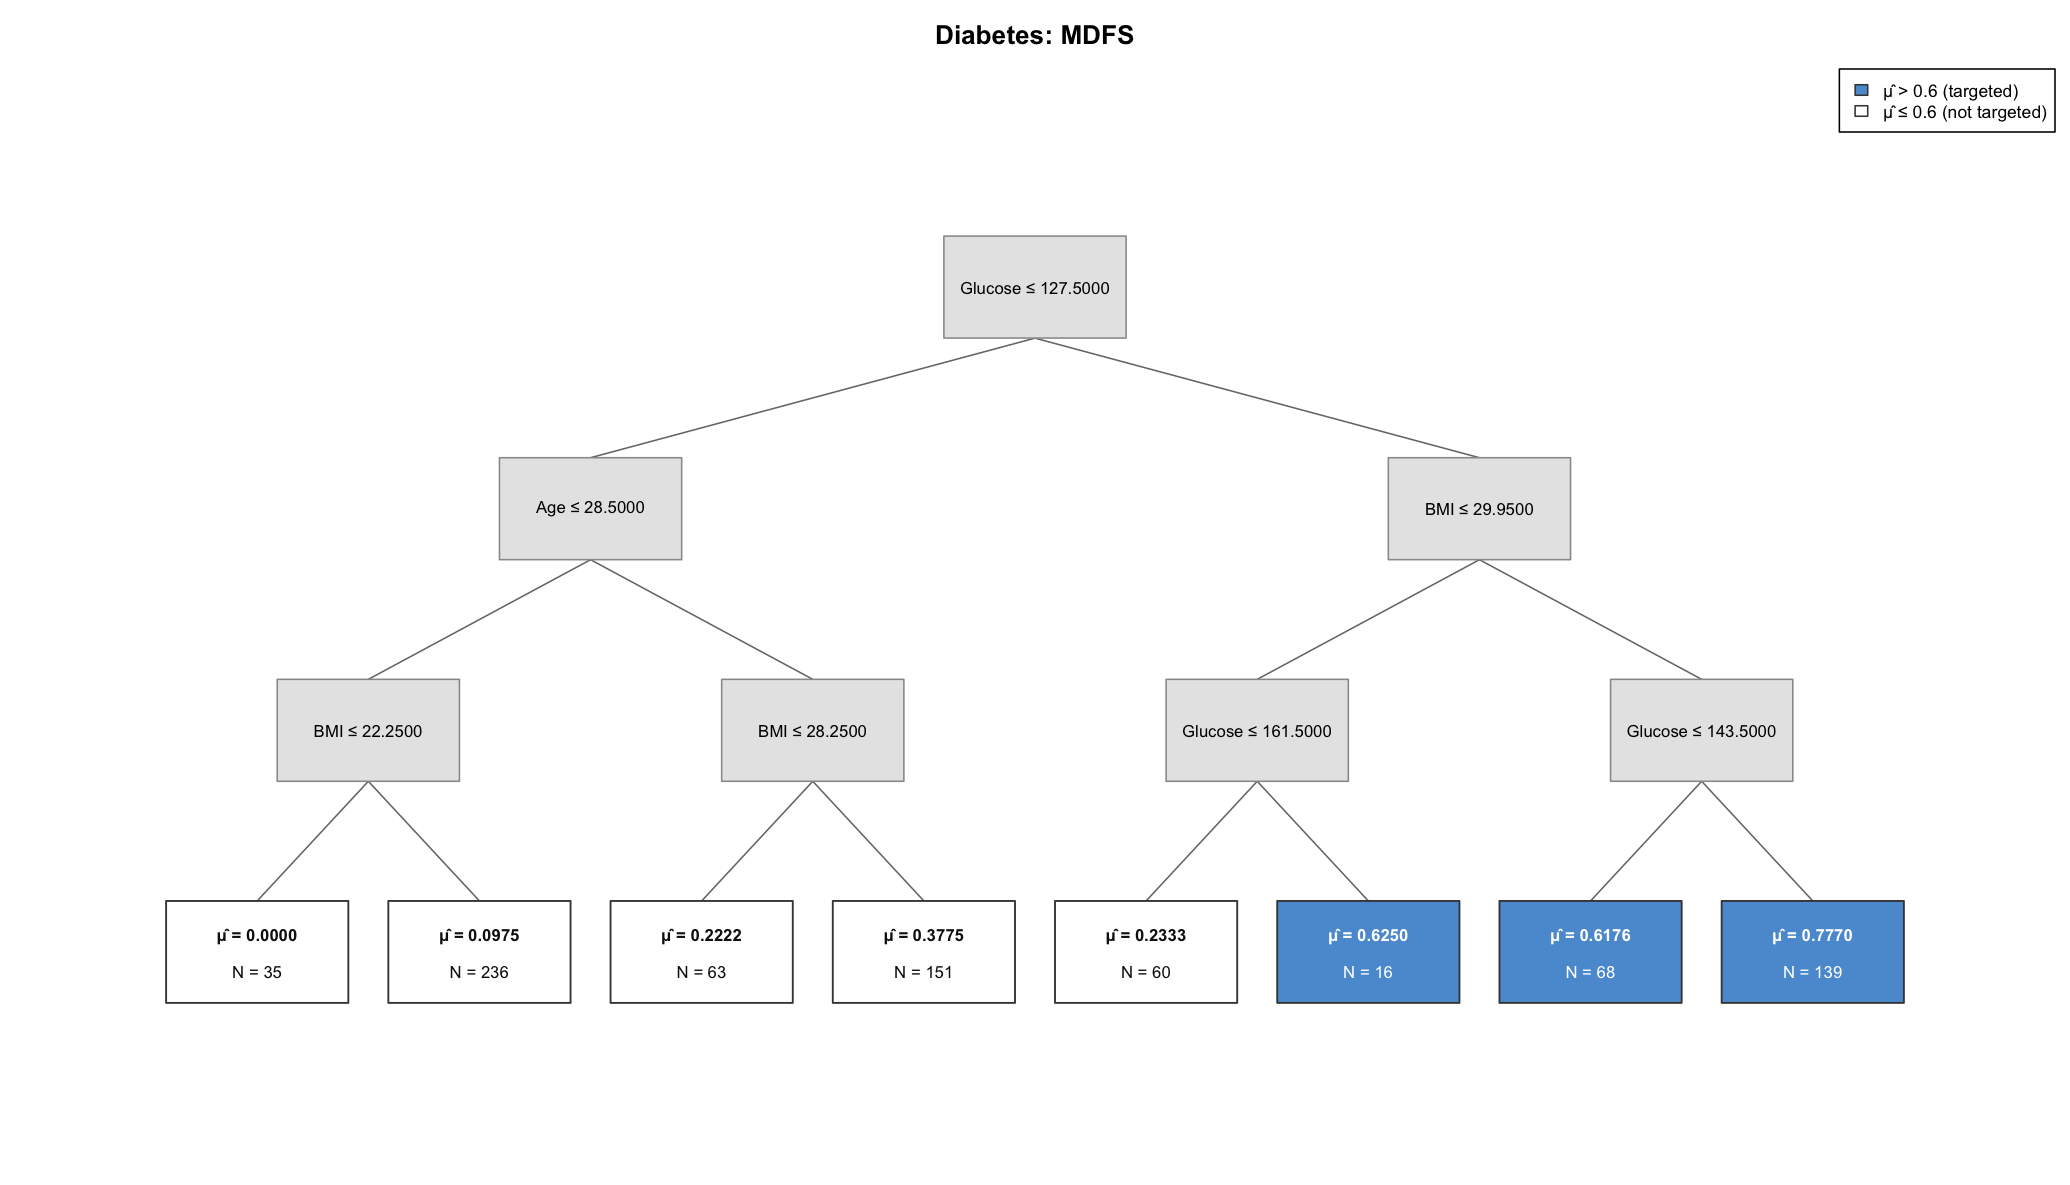
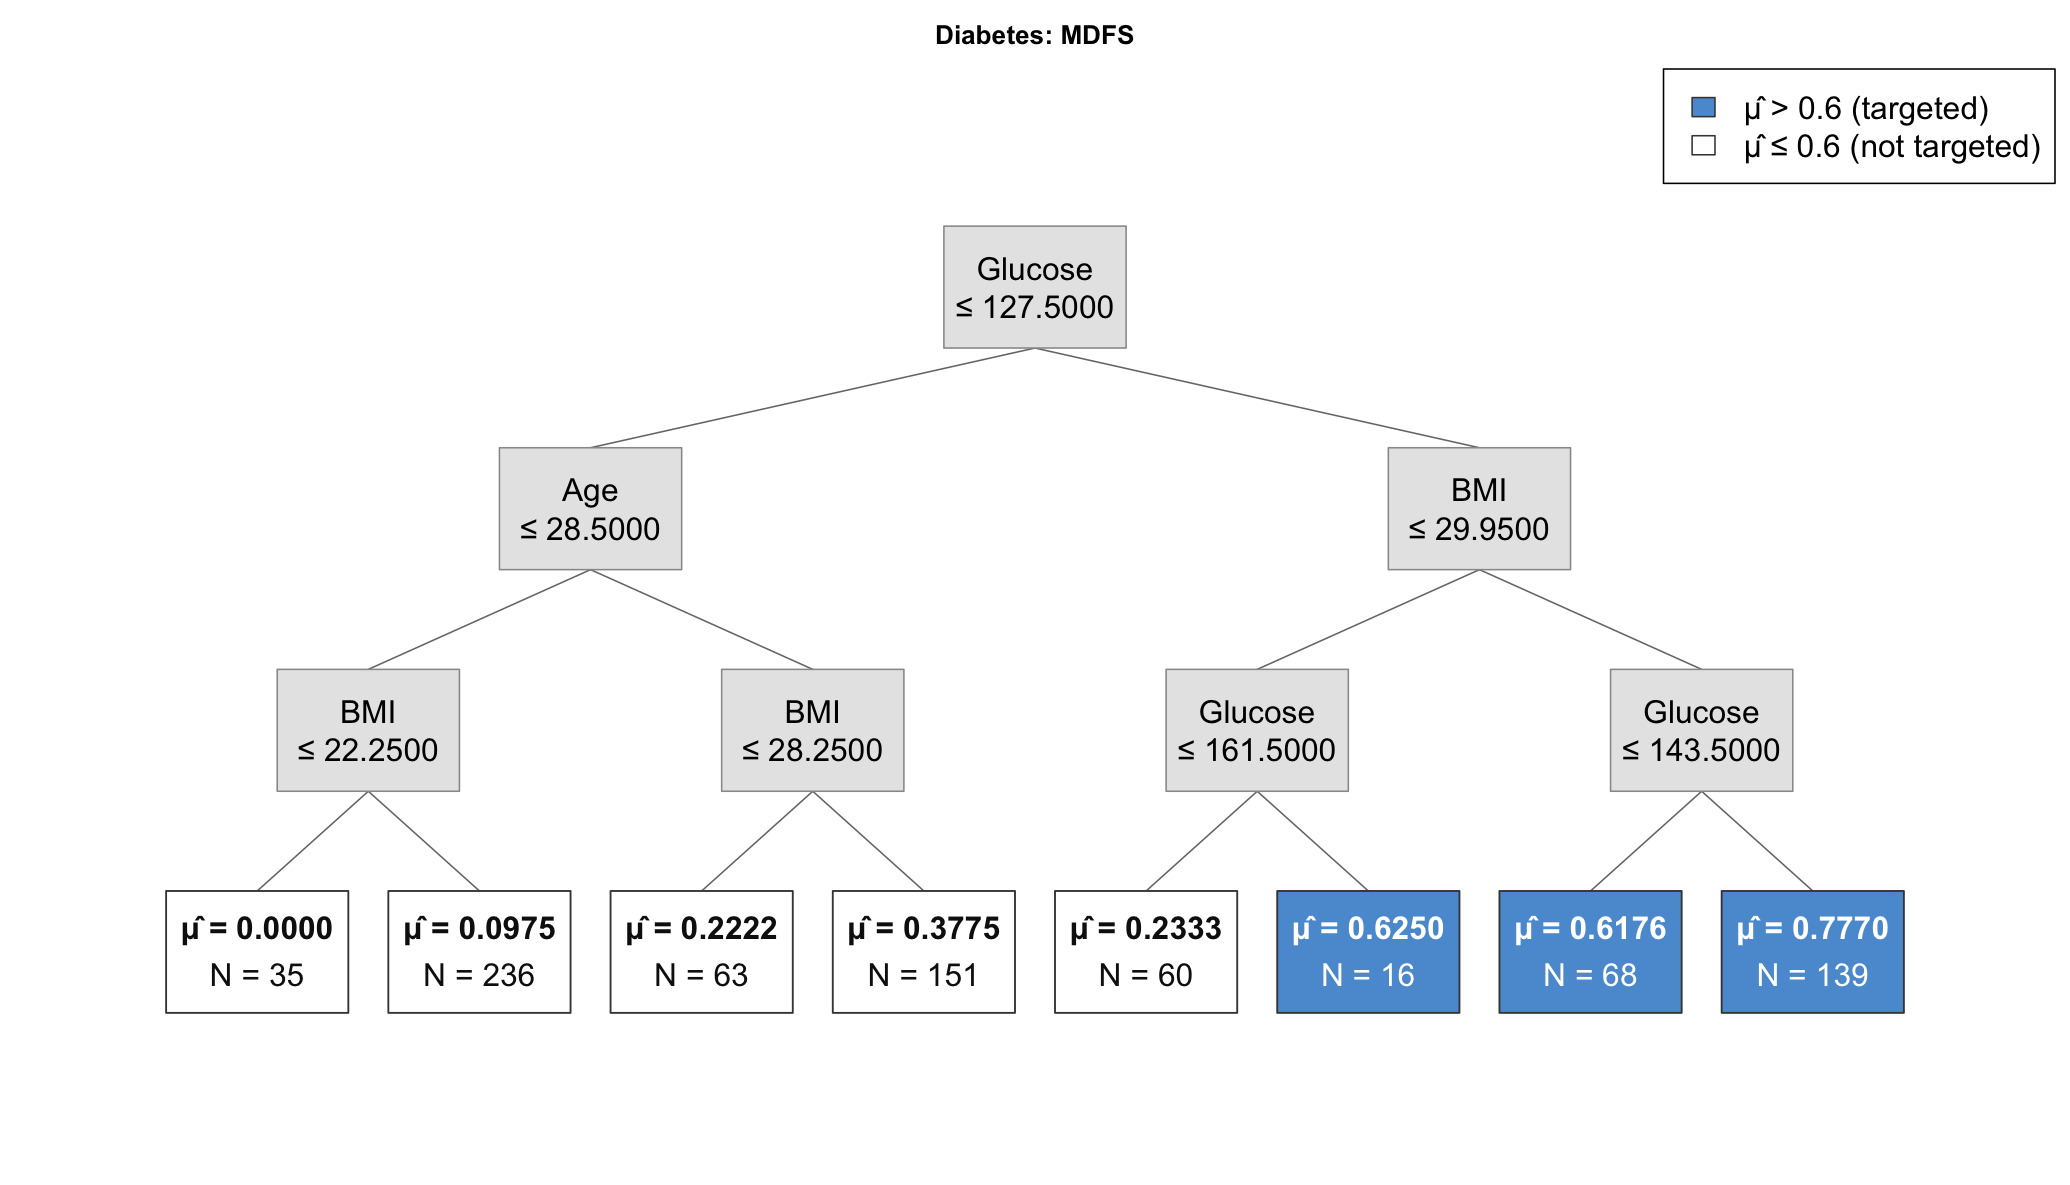
Add adaptive font sizing to R tree plots

diff --git a/README.md b/README.md
@@ -67,7 +67,11 @@ targeted <- diabetes_risk > model$cut
 
 model$get_risk(X, y)
 model$print_tree()
-model$plot(title = "MDFS tree", save_path = "diabetes-mdfs.pdf")
+model$plot(
+  title = "MDFS tree",
+  split_rule_lines = 2,
+  save_path = "diabetes-mdfs.pdf"
+)
 ```
 
 `model$predict()` returns the terminal-node probability assigned to every
@@ -110,7 +114,10 @@ diabetes_cart <- CART$new(
 )
 diabetes_cart$fit(X, y)
 diabetes_cart$get_risk(X, y)
-diabetes_cart$plot(title = "CART", save_path = "diabetes-cart.pdf")
+diabetes_cart$plot(
+  title = "CART", split_rule_lines = 2,
+  save_path = "diabetes-cart.pdf"
+)
 
 diabetes_mdfs <- CART$new(
   depth = 3, minimum_portion = 0.02,
@@ -119,7 +126,10 @@ diabetes_mdfs <- CART$new(
 )
 diabetes_mdfs$fit(X, y)
 diabetes_mdfs$get_risk(X, y)
-diabetes_mdfs$plot(title = "MDFS", save_path = "diabetes-mdfs.pdf")
+diabetes_mdfs$plot(
+  title = "MDFS", split_rule_lines = 2,
+  save_path = "diabetes-mdfs.pdf"
+)
 
 diabetes_pfs <- CART$new(
   depth = 3, minimum_portion = 0.02,
@@ -128,8 +138,10 @@ diabetes_pfs <- CART$new(
 )
 diabetes_pfs$fit(X, y)
 diabetes_pfs$get_risk(X, y)
-diabetes_pfs$plot(title = "PFS (lambda = 0.5)",
-                  save_path = "diabetes-pfs.pdf")
+diabetes_pfs$plot(
+  title = "PFS (lambda = 0.5)", split_rule_lines = 2,
+  save_path = "diabetes-pfs.pdf"
+)
 ```
 
 Diabetes CART tree:
@@ -168,7 +180,10 @@ forestfires_cart <- CART$new(
 )
 forestfires_cart$fit(X, y)
 forestfires_cart$get_risk(X, y)
-forestfires_cart$plot(title = "CART", save_path = "forestfires-cart.pdf")
+forestfires_cart$plot(
+  title = "CART", split_rule_lines = 2,
+  save_path = "forestfires-cart.pdf"
+)
 
 forestfires_mdfs <- CART$new(
   depth = 3, minimum_portion = 0.02,
@@ -177,7 +192,10 @@ forestfires_mdfs <- CART$new(
 )
 forestfires_mdfs$fit(X, y)
 forestfires_mdfs$get_risk(X, y)
-forestfires_mdfs$plot(title = "MDFS", save_path = "forestfires-mdfs.pdf")
+forestfires_mdfs$plot(
+  title = "MDFS", split_rule_lines = 2,
+  save_path = "forestfires-mdfs.pdf"
+)
 
 forestfires_pfs <- CART$new(
   depth = 3, minimum_portion = 0.02,
@@ -186,8 +204,10 @@ forestfires_pfs <- CART$new(
 )
 forestfires_pfs$fit(X, y)
 forestfires_pfs$get_risk(X, y)
-forestfires_pfs$plot(title = "PFS (lambda = 0.5)",
-                     save_path = "forestfires-pfs.pdf")
+forestfires_pfs$plot(
+  title = "PFS (lambda = 0.5)", split_rule_lines = 2,
+  save_path = "forestfires-pfs.pdf"
+)
 ```
 
 Forest-fire CART tree:
@@ -241,12 +261,20 @@ categorical_model$fit(X, y)
 
 ```r
 model$print_tree()
-model$plot(title = "MDFS tree")
-model$plot(title = "MDFS tree", save_path = "tree.pdf")
+model$plot(title = "MDFS tree", split_rule_lines = 2)
+model$plot(
+  title = "MDFS tree", save_path = "tree.pdf",
+  font_size = 15, split_rule_lines = 2
+)
 ```
 
 PNG, PDF, and SVG output are supported. When `save_path` is omitted, the tree
-is drawn on the current R graphics device.
+is drawn on the current R graphics device. By default, `font_size = NULL`
+selects the largest uniform font that fits every node box. Supply a positive
+font size in points, such as `font_size = 15`, to override the automatic size.
+Use `split_rule_lines = 1` for a one-line rule such as `Glucose ≤ 127.5`, or
+`split_rule_lines = 2` to place `Glucose` and `≤ 127.5` on separate lines.
+Two-line rules generally allow the automatic font size to be larger.
 
 ## Getting help
 
